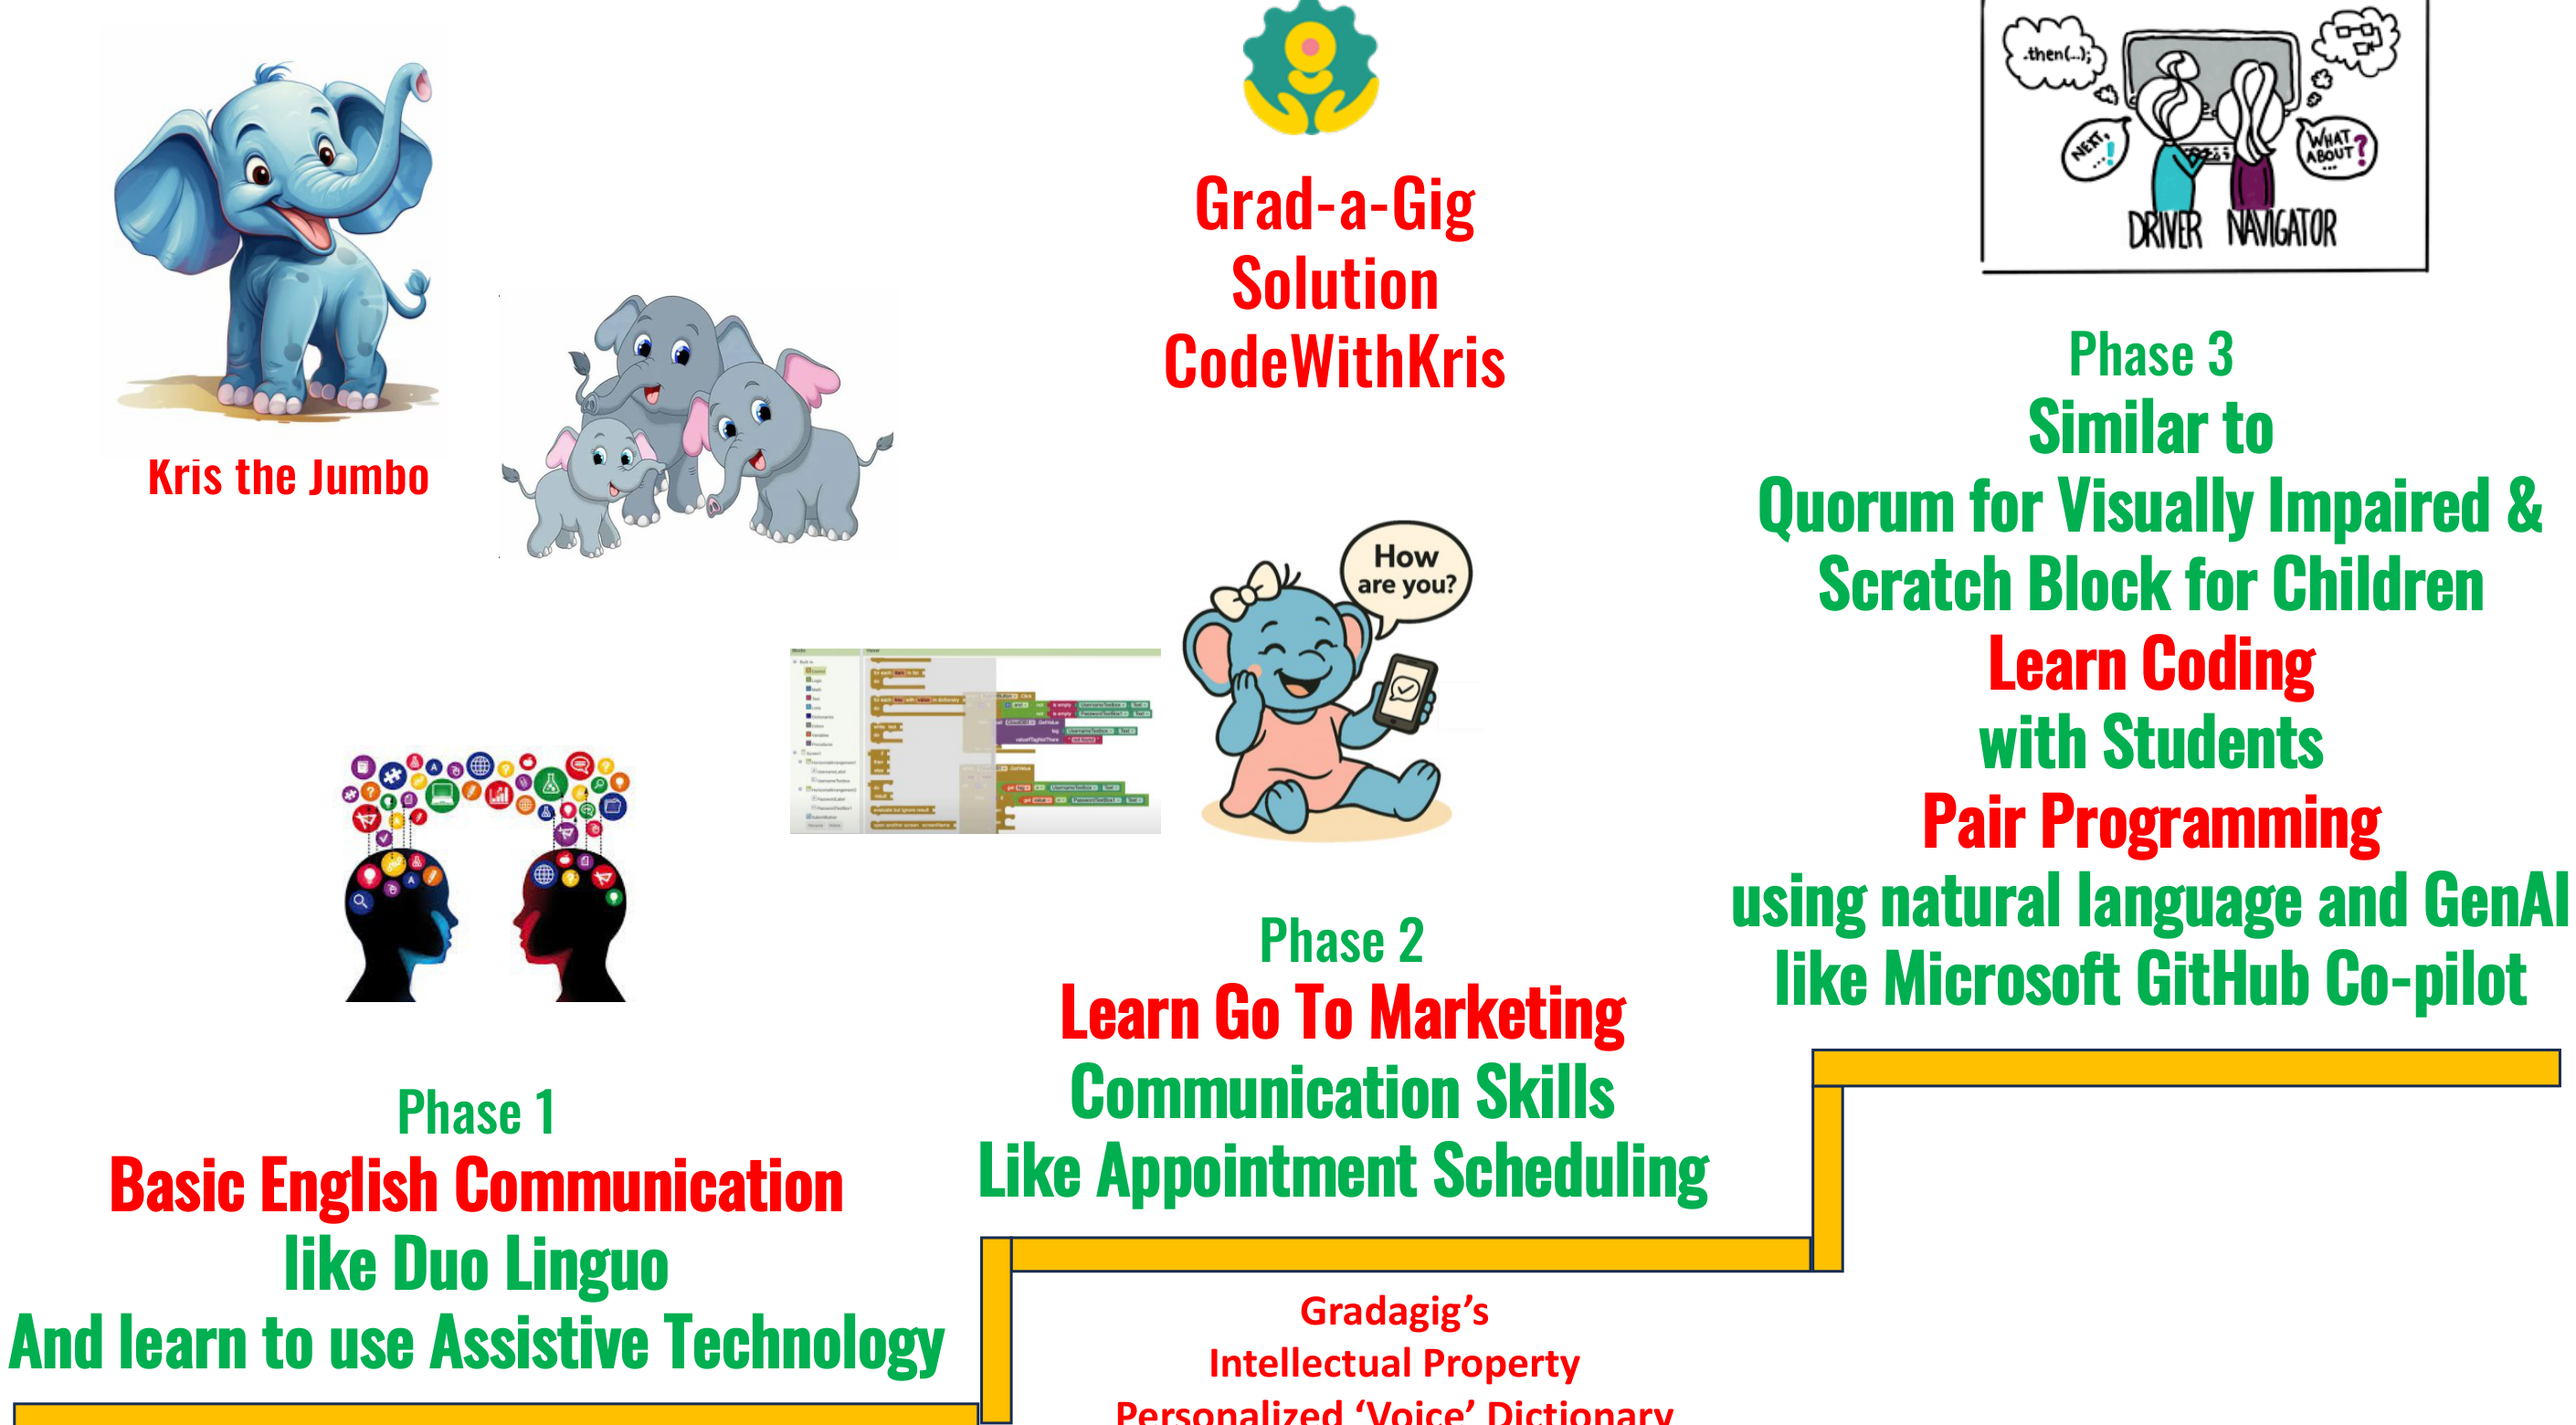
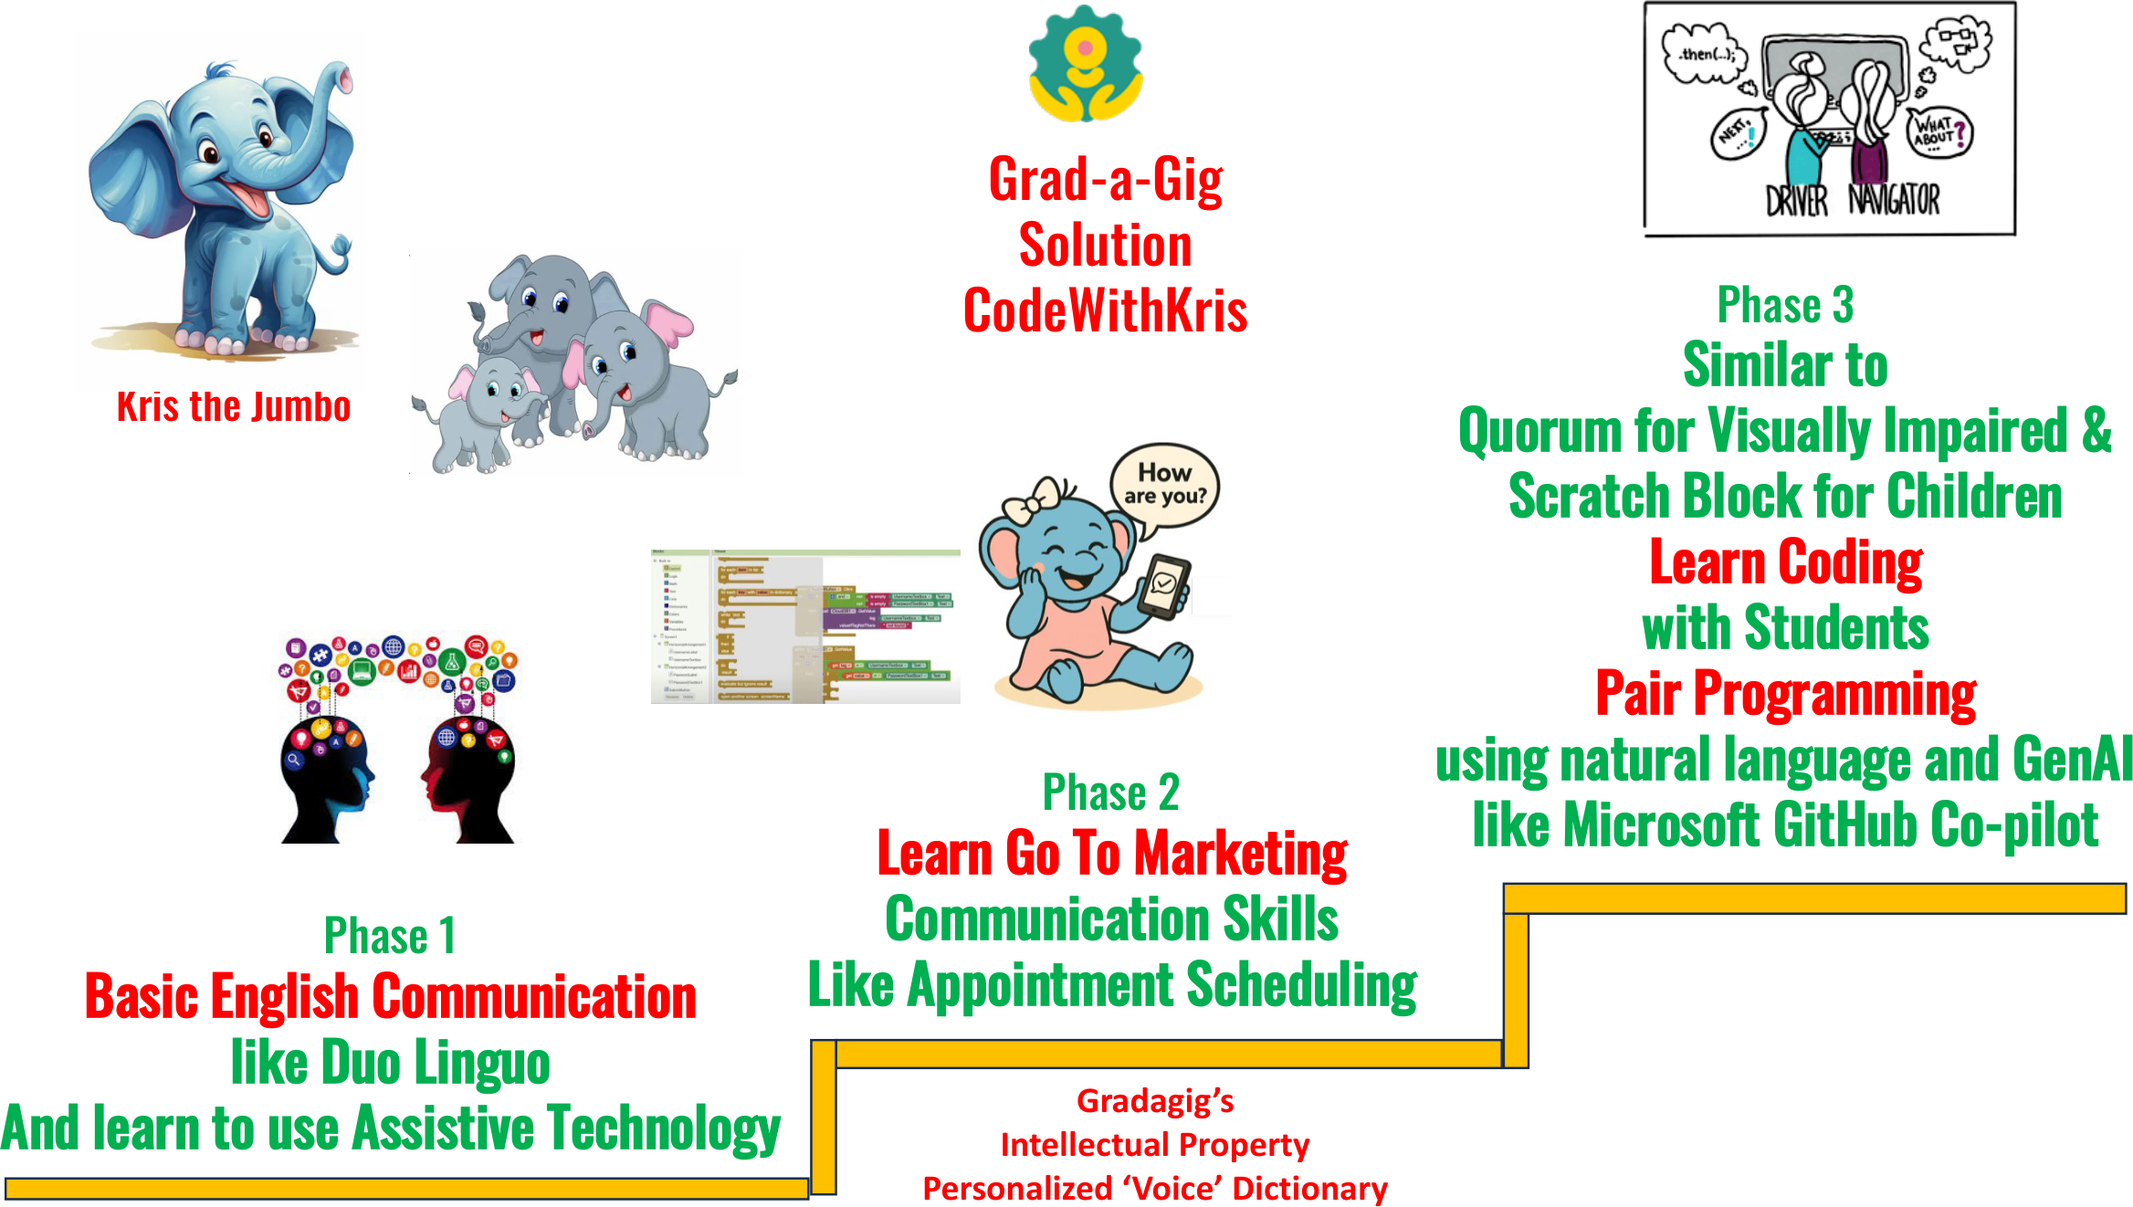
Auto-crop phases image to content bounds and increase max-width

diff --git a/codewithkris.html b/codewithkris.html
@@ -228,7 +228,7 @@
         </article>
       </div>
       <div class="flex justify-center">
-        <img src="docs/cwk_phases_mascot_v2.png" alt="Diagram showing CodeWithKris phases with Kris the Jumbo mascot: communication, Go-To-Market skills, and coding" class="w-full max-w-4xl rounded-2xl border border-slate-200 shadow-sm">
+        <img src="docs/cwk_phases_mascot_v2.png" alt="Diagram showing CodeWithKris phases with Kris the Jumbo mascot: communication, Go-To-Market skills, and coding" class="w-full max-w-5xl rounded-2xl border border-slate-200 shadow-sm">
       </div>
     </div>
   </section>
